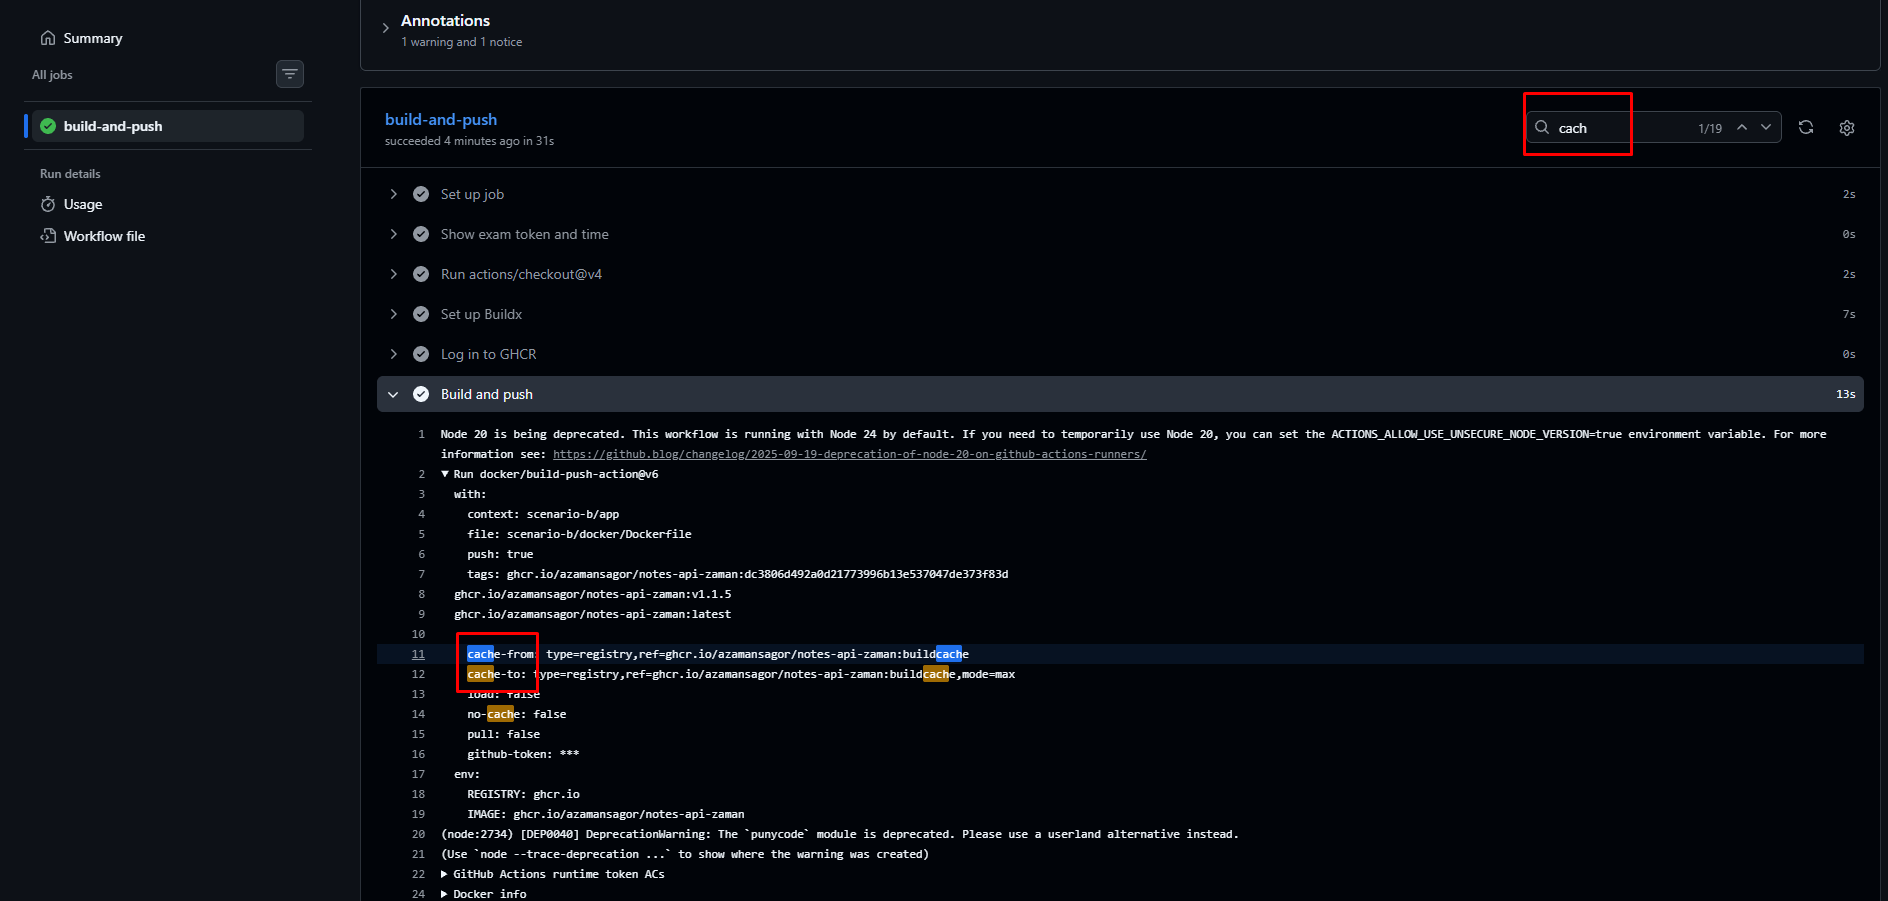
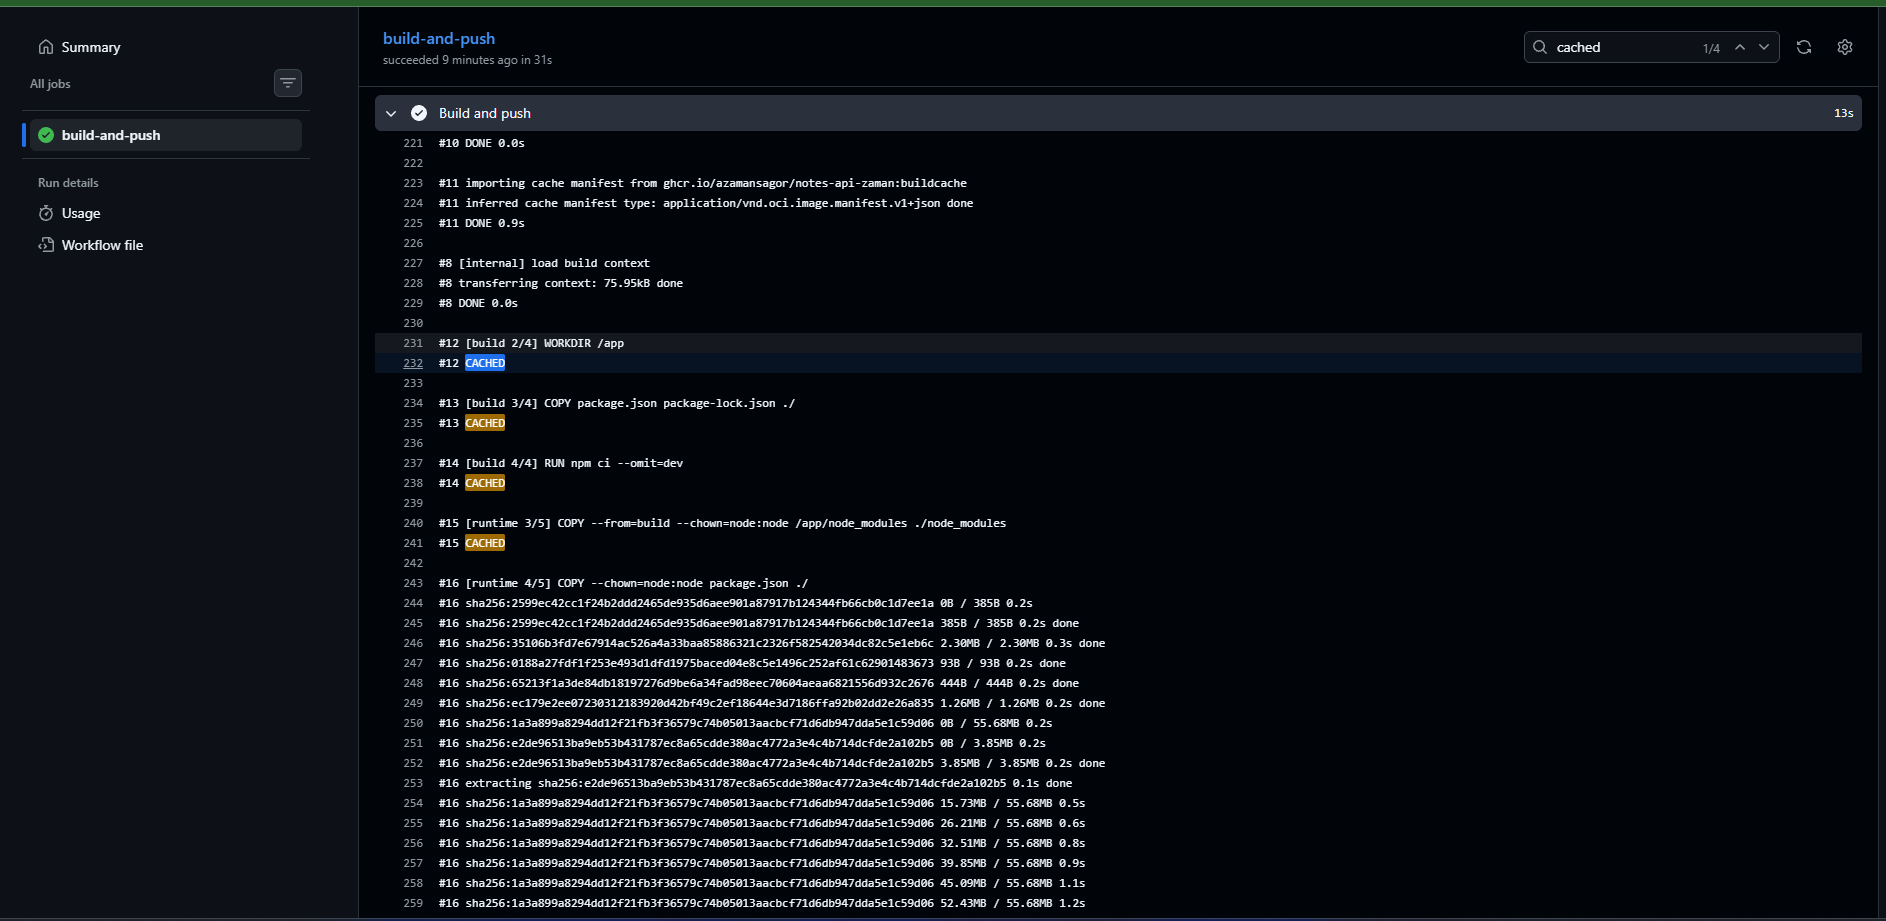
Commit servier version change

Changed region(s): [[0.0, 0.0, 1.0, 1.0], [0.0, 0.1865, 0.0923, 0.2797], [0.0, 0.1243, 0.0923, 0.1554]]

diff --git a/scenario-b/app/server.js b/scenario-b/app/server.js
@@ -17,7 +17,7 @@ const INSTANCE = process.env.HOSTNAME || os.hostname();
 // source rather than an environment variable on purpose: the point of that task
 // is to prove the *image* rolled over, and a version that can be changed with
 // --env-add would prove nothing about which build is running.
-const APP_VERSION = '1';
+const APP_VERSION = '2';
 app.use((req, res, next) => {
   res.set('X-Served-By', INSTANCE);
   next();
